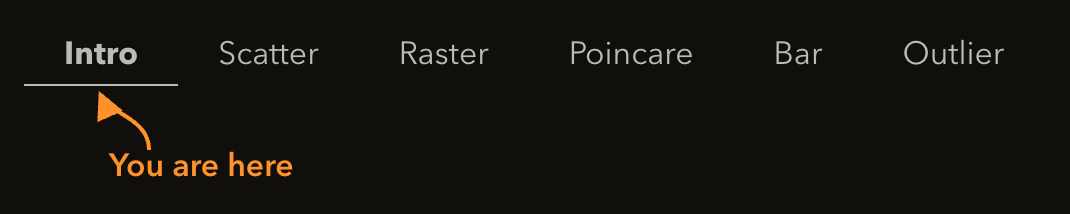
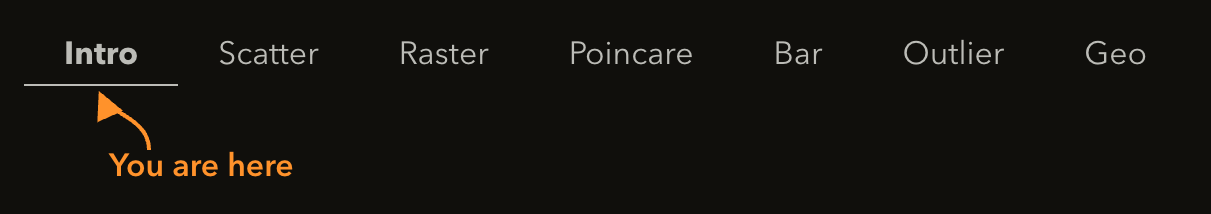
geo chart docs

diff --git a/packages/examples/src/app/examples/docs/Intro.tsx b/packages/examples/src/app/examples/docs/Intro.tsx
@@ -12,6 +12,7 @@ import raster_chart_page from "./raster-chart.md?raw";
 import poincare_chart_page from "./poincare-chart.md?raw";
 import bar_chart_page from "./bar-chart.md?raw";
 import outlier_chart_page from "./outlier-chart.md?raw";
+import geo_chart_page from "./geo-chart.md?raw";
 import axes_page from "./axes.md?raw";
 import legends_page from "./legends.md?raw";
 import theming_page from "./theming.md?raw";
@@ -53,6 +54,7 @@ const pages = [
     poincare_chart_page,
     bar_chart_page,
     outlier_chart_page,
+    geo_chart_page,
     axes_page,
     legends_page,
     theming_page,

diff --git a/packages/examples/src/app/examples/docs/geo-chart.md b/packages/examples/src/app/examples/docs/geo-chart.md
@@ -1,0 +1,82 @@
+### the geo chart
+
+The geo chart plots events from sensors at places on the earth – on a globe, or on a flat map in one of eleven projections. Each event says which sensor reported it, where (a latitude and longitude), when, and what it reported (its *payload*). The chart shows either each event as it arrives, or *aggregates*: the events rolled up by place, by sensor, or by the cells of a grid, with counts and measures of what they reported.
+
+#### what you're looking at
+
+<figure>
+    <img src="./images/geo-chart.png" alt="The geo chart example: a globe with the land, the borders, and the graticule; purple seismic events, blue weather readings, and green trails of vessel reports, the older ones fading">
+    <figcaption>
+        <b>Figure 14</b> The geo chart after running for half a minute. The purple markers are seismic events, sized by their magnitude; the blue ones, wind speeds from weather stations; and the green trails, position reports from vessels at sea. The older the event, the fainter its marker.
+    </figcaption>
+</figure>
+
+The example simulates a network of three groups of sensors:
+
+- **seismic stations** around the Pacific "Ring of Fire" and a few other active zones, with two or three sensors at each site – so one quake is often reported by several sensors at the same place,
+- **weather stations**, one in each of 26 cities, reporting wind speeds, and
+- **vessels**, sensors that move: they sail back and forth along shipping routes, reporting their position and speed as they go.
+
+Each group is a series, with its own color and legend entry. Every event's payload holds its kind, a reading (a quake's magnitude, a wind speed, or a vessel's speed), and a status – ok, a warning, or an alarm.
+
+Drag the globe to turn it, and hold shift while scrolling to zoom – about the mouse, so the place under it stays put. On a flat map, dragging pans the map instead (north and south, too, once you've zoomed in). The view stays where you left it when you switch to another tab and back.
+
+Hover over a marker, with the tooltip on, and the tooltip shows the event's series and sensor, where and when it happened, and its reading and status. Unlike the other charts, the geo chart's tooltip also works *while the chart is running* – the places don't move, so there's nothing to chase.
+
+The markers are circles on the earth, drawn through the projection, so the projection shapes them just like the land: they flatten toward the edge of the globe, and stretch toward the poles of a Mercator map.
+
+#### aggregates
+
+<figure>
+    <img src="./images/geo-aggregates.png" alt="The geo chart showing aggregates: circles at the sensor sites, sized by their number of events and colored by their peak reading, with a key for the sizes and the colors in the bottom-right corner">
+    <figcaption>
+        <b>Figure 15</b> The same data, rolled up "by location": one circle per place, its area showing how many events happened there, and its color the peak reading. The key, in the corner, says what the sizes and colors mean.
+    </figcaption>
+</figure>
+
+Switch **Show** to *Aggregates* and, instead of the events, the chart shows one of the data source's *roll-ups*. A roll-up puts every event into a cell, and keeps a count, and some measures, for each cell. The example has four:
+
+- **Events by location** – all the events at a place, whichever sensor reported them, broken down by sensor. At a seismic site, that's the site's total, and how many each of its sensors reported.
+- **Events by sensor** – each sensor's events, wherever the sensor was. A vessel's circle follows the vessel.
+- **Alarms and warnings by location** – only the events whose status isn't ok, by place, broken down by status.
+- **10° grid** – all the events in each 10° by 10° cell of a grid, drawn as the cells themselves, broken down by series.
+
+Each roll-up measures the *peak reading* and the *mean reading* of its events. A circle's area shows its number of events, and its color the measure picked in **Color by**. The tooltip lists the counts of events and sensors, the time span, the measures, and the breakdown.
+
+The data source keeps its roll-ups up to date as events arrive *and as they're dropped*, so a roll-up always covers exactly the events the chart holds. And because it's the data source that keeps them, they keep up while you're on another tab, and switching roll-ups is instant.
+
+#### controls just for this chart
+
+<figure>
+    <img src="./images/geo-controls.png" alt="The geo chart's expanded control panel, with the controls just for the geo chart outlined: size by magnitude and color by status; the show, roll-up, and color-by drop-downs; and the projection, graticule, borders, fade older, and auto-rotate controls" width="460px">
+    <figcaption>
+        <b>Figure 16</b> The geo chart's control panel, opened with the expand button. The outlined controls are just for the geo chart, and the rest are the common controls (see the common controls page).
+    </figcaption>
+</figure>
+
+- **size by magnitude** – Sizes each event's marker by its reading: a quake's magnitude, a wind speed, or a vessel's speed, each scaled to a similar range of sizes. *Wired to:* the plot's `radiusOf` property.
+- **color by status** – Colors warnings orange and alarms red; ok events keep their series' color. *Wired to:* the plot's `colorOf` property.
+- **Show** – *Events* or *Aggregates*. *Wired to:* the plot's `mode` property.
+- **Roll-up** – Which roll-up to show, in the aggregates mode. *Wired to:* the plot's `rollup` property (the names come from the data source's `rollups` option).
+- **Color by** – What colors the aggregates: nothing, their count, or one of their measures. *Wired to:* the plot's `colorBy` property.
+- **Projection** – The map projection: the orthographic projection (the globe), the other azimuthal projections, or one of the flat ones, from Mercator to Equal Earth. *Wired to:* the plot's `projection` property.
+- **graticule** and **borders** – The lines of latitude and longitude, and the borders between countries. *Wired to:* the plot's `showGraticule` and `borders` properties.
+- **fade older** – Fades the events (and the aggregates) as they age, over 30 seconds. *Wired to:* the plot's `fadeDuration` property.
+- **auto-rotate** – Turns the globe by itself, at 6° a second, pausing while you drag it or hover over an event. *Wired to:* the plot's `autoRotate` property.
+
+There's no **Cadence**, **Update Lag**, or tracker here – the geo chart has no time axis. The **RegEx filter** filters the events' series; a roll-up decides for itself which events it takes (the "alarms and warnings" roll-up, for example). And the legend only shows with the events – the aggregates have their keys instead.
+
+#### where the code lives
+
+The example (yours to copy, change, or ignore):
+- `src/app/examples/StreamingGeoChart.tsx` – the control bar, and the chart itself
+- `src/app/examples/appstate/geoChartStore.ts` – the example's state, its data source, and the data source's roll-ups
+- `src/app/examples/dataproviders/randomGeoData.ts` – the random network of sensors
+- `src/app/examples/dataproviders/worldMap.ts` – the map: the land and the borders, from the [world-atlas](https://github.com/topojson/world-atlas) package (converted from TopoJSON with [topojson-client](https://github.com/topojson/topojson-client))
+- `src/app/examples/controls/ProjectionControl.tsx` and `src/app/examples/controls/GeoAggregateControls.tsx` – the controls just for this chart
+
+The library (what you'd use in your own application):
+- `<Chart>`, `<GeoPlot>`, `<Legend>`, `<Tooltip>` with `<GeoPlotTooltipContent>`
+- `GeoDataSource` – holds the events, and keeps the roll-ups (made with `byLocation`, `bySensor`, `byGridCell`, and measures like `maxOf` and `meanOf`)
+
+The library doesn't come with a map: you hand the plot the land and borders you want, at the level of detail you want, as GeoJSON.

diff --git a/packages/examples/src/app/examples/docs/common-controls.md b/packages/examples/src/app/examples/docs/common-controls.md
@@ -20,23 +20,23 @@ A lot of the controls are disabled while the chart is running. Those change how 
 - **Cadence** – When checked, the time axis moves on every frame of the display, whether or not new data has arrived, so it scrolls smoothly instead of jumping forward with each batch. That's especially handy when the data arrives slowly. When the data arrives quickly, cadence is generally unnecessary. *Wired to:* the plot's `withCadence` property.
 - **Update Lag** – Not a control, but a read-out: how far the chart's time has fallen behind real time since you clicked **Run**. If the chart can't keep up with the data (too many series, arriving too often, with too little buffering), the lag grows – and the lag icon in the header turns red. This is a good way to find the limits of what a chart can handle. *Computed by:* the example, from the time the chart reports through its `onUpdateAxesBounds` (or `onUpdateChartTime`) callback.
 - **RegEx filter** – Type a regular expression and only the series whose names match it are shown. For example, `1$` shows only the series whose names end in "1". An invalid expression (say, while you're still typing it) shows all the series. This one works while the chart is running. *Wired to:* the `<Chart>`'s `seriesFilter` property.
-- **tooltip** – Shows a tooltip with details about the series (or data point) under the mouse. The tooltips are only available while the chart is paused – chasing a moving line with the mouse isn't much fun anyway. More on tooltips a few pages from now. *Wired to:* the `<Tooltip>`'s `visible` property.
+- **tooltip** – Shows a tooltip with details about the series (or data point) under the mouse. The tooltips are only available while the chart is paused – chasing a moving line with the mouse isn't much fun anyway. (The geo chart is the exception: its places don't move, so its tooltip works while it runs, too.) More on tooltips a few pages from now. *Wired to:* the `<Tooltip>`'s `visible` property.
 - **tracker** – Shows a line that follows the mouse, with a label for its value on the axis. Also only available while the chart is paused. *Wired to:* the `<Tracker>`'s `visible` property.
 - **highlight axes** – When checked, hovering over a series also highlights the axes it's plotted against. That's handy when a chart has more than one x- or y-axis (the scatter chart, for example, has two of each). *Wired to:* the plot's `highlightAxesOnMouseOver` property.
 
 #### which example has which
 
-|                    | Scatter | Raster | Poincare | Bar | Outlier |
-|--------------------|:-------:|:------:|:--------:|:---:|:-------:|
-| drop-after         |    ✓    |   ✓    |    ✓     |  ✓  |    ✓    |
-| Number of Series   |    ✓    |   ✓    |          |  ✓  |         |
-| Update Rate        |    ✓    |   ✓    |    ✓     |  ✓  |    ✓    |
-| Buffering          |    ✓    |   ✓    |          |  ✓  |    ✓    |
-| Cadence            |    ✓    |   ✓    |          |     |    ✓    |
-| Update Lag         |    ✓    |   ✓    |    ✓     |  ✓  |    ✓    |
-| RegEx filter       |    ✓    |   ✓    |          |  ✓  |    ✓    |
-| tooltip            |    ✓    |   ✓    |    ✓     |  ✓  |    ✓    |
-| tracker            |    ✓    |   ✓    |    ✓     |  ✓  |         |
-| highlight axes     |    ✓    |   ✓    |    ✓     |  ✓  |    ✓    |
+|                    | Scatter | Raster | Poincare | Bar | Outlier | Geo |
+|--------------------|:-------:|:------:|:--------:|:---:|:-------:|:---:|
+| drop-after         |    ✓    |   ✓    |    ✓     |  ✓  |    ✓    |  ✓  |
+| Number of Series   |    ✓    |   ✓    |          |  ✓  |         |     |
+| Update Rate        |    ✓    |   ✓    |    ✓     |  ✓  |    ✓    |  ✓  |
+| Buffering          |    ✓    |   ✓    |          |  ✓  |    ✓    |  ✓  |
+| Cadence            |    ✓    |   ✓    |          |     |    ✓    |     |
+| Update Lag         |    ✓    |   ✓    |    ✓     |  ✓  |    ✓    |     |
+| RegEx filter       |    ✓    |   ✓    |          |  ✓  |    ✓    |  ✓  |
+| tooltip            |    ✓    |   ✓    |    ✓     |  ✓  |    ✓    |  ✓  |
+| tracker            |    ✓    |   ✓    |    ✓     |  ✓  |         |     |
+| highlight axes     |    ✓    |   ✓    |    ✓     |  ✓  |    ✓    |     |
 
 The next pages go through the examples one at a time – what each chart shows, and the controls that are specific to it.

diff --git a/packages/examples/src/app/examples/docs/writing-tooltips.md b/packages/examples/src/app/examples/docs/writing-tooltips.md
@@ -293,9 +293,37 @@ export function MyOutlierTooltip(): ReactElement {
 
 The outlier chart also has a shortcut, which the tooltips page mentioned: put your own component inside the library's `<OutlierPlotTooltipContent>`, and it renders that instead of its own content. Your component gets what the tooltip shows, and the formatters, from the `useOutlierTooltip()` hook (see `MyOutlierTooltipContent` in `src/app/examples`).
 
+#### the geo chart
+
+The geo plot has two kinds of things to hover over, depending on its `mode`: the events, and a roll-up's aggregates. Its `metadata` says which, with its `kind`:
+
+- `{kind: 'event', seriesName, datum}` – the event under the mouse: its `sensorId`, `latitude`, `longitude`, `time`, and `payload`.
+- `{kind: 'aggregate', rollup, aggregate}` – the aggregate under the mouse, and its roll-up's name. The aggregate has its `count`, `sensorCount`, `values` (the measures, by name), `groups`, position, and time span.
+
+```tsx
+import {type ReactElement} from "react";
+import {TooltipContent, type GeoDatum, type GeoTooltipMetadata} from "stream-charts";
+import type {SensorReading} from "./dataproviders/randomGeoData";
+
+export function MyGeoTooltip(): ReactElement {
+    return (
+        <TooltipContent<GeoDatum<SensorReading>, GeoTooltipMetadata<SensorReading>, GeoTooltipMetadata<SensorReading>>
+            capture={(_seriesName, _time, {metadata}) => metadata}
+        >
+            {target => target.kind === 'event' ?
+                <div>{target.datum.sensorId}: {target.datum.payload.magnitude}</div> :
+                <div>{target.aggregate.count} events from {target.aggregate.sensorCount} sensors</div>
+            }
+        </TooltipContent>
+    )
+}
+```
+
+The library's `<GeoPlotTooltipContent>` takes formatters for the position, the time, the payload, and the measures – and an `aggregateFormatter` that replaces its whole content for an aggregate – so you'll often not need your own.
+
 #### things to know
 
-- **Most tooltips only show while the chart is paused.** The scatter, raster, Poincaré, and bar plots don't hit-test while their data source is running, so there's nothing for a tooltip to do. (Chasing a moving line with the mouse isn't much fun anyway.) The outlier plot is the exception: its bands can be hovered while it streams, too.
+- **Most tooltips only show while the chart is paused.** The scatter, raster, Poincaré, and bar plots don't hit-test while their data source is running, so there's nothing for a tooltip to do. (Chasing a moving line with the mouse isn't much fun anyway.) The outlier plot is one exception: its bands can be hovered while it streams, too. The geo plot is the other: its places don't move, so its events and aggregates can be hovered while it streams, and an open tooltip keeps up with the aggregate under a resting mouse.
 - **The capture function runs on every mouse move.** Keep it quick. The series can hold thousands of points, so a loop over them is fine, but anything slower adds up.
 - **Copy what you need out of the series.** The series is the data source's live data, which keeps changing as data arrives (and gets dropped). That's why the tooltips above pull out the values they show, rather than keeping the series around.
 - **One tooltip per chart.** A chart has one content provider at a time, so put one tooltip component inside the `<Tooltip>`. When you need different content for different elements, switch on `providerId` (or on the metadata), as the bar and outlier tooltips do.

diff --git a/packages/examples/src/app/examples/docs/tooltips-and-trackers.md b/packages/examples/src/app/examples/docs/tooltips-and-trackers.md
@@ -6,12 +6,12 @@ In the examples, both are turned on and off with checkboxes in the control bar, 
 
 #### tooltips
 
-Hover over a series (or a point, a spike, a bar, or a band) with the tooltip on, and a little box pops up with the details: the series name, the values, and whatever else makes sense for the chart type. For example, the scatter chart's tooltip shows the data points on either side of the mouse and the change between them – or, when the mouse is right on a data point, that point along with the points before and after it – and the chart highlights the points the tooltip is showing. The raster chart's tooltip adds statistics of the neuron's spikes in the window – their count, mean value and standard deviation, and the mean time between spikes – with a sparkline of their values (the hovered spike is the dot). The Poincare chart's tooltip shows the hovered iterate and its neighbors, with a sparkline of the series' values over time, around the hovered point (which is the dot). The bar chart's tooltip includes a sparkline – a tiny line chart of the value over the data the chart is holding, ending in the current value – and the outlier chart's tooltip describes the band you're hovering over.
+Hover over a series (or a point, a spike, a bar, or a band) with the tooltip on, and a little box pops up with the details: the series name, the values, and whatever else makes sense for the chart type. For example, the scatter chart's tooltip shows the data points on either side of the mouse and the change between them – or, when the mouse is right on a data point, that point along with the points before and after it – and the chart highlights the points the tooltip is showing. The raster chart's tooltip adds statistics of the neuron's spikes in the window – their count, mean value and standard deviation, and the mean time between spikes – with a sparkline of their values (the hovered spike is the dot). The Poincare chart's tooltip shows the hovered iterate and its neighbors, with a sparkline of the series' values over time, around the hovered point (which is the dot). The bar chart's tooltip includes a sparkline – a tiny line chart of the value over the data the chart is holding, ending in the current value – the outlier chart's tooltip describes the band you're hovering over, and the geo chart's tooltip shows the event (or the aggregate) under the mouse.
 
 In the library, a tooltip comes in two parts:
 
 1. `<Tooltip>` – the tooltip itself. It decides whether the tooltip shows, and its look (colors, border, opacity, and font) is set through its `style` property.
-2. The *content* – what goes in the box. The library has content for each chart type: `<ScatterPlotTooltipContent>`, `<RasterPlotTooltipContent>`, `<PoincarePlotTooltipContent>`, `<BarPlotTooltipContent>`, and `<OutlierPlotTooltipContent>`. The content draws the box, next to the mouse, in the tooltip's style.
+2. The *content* – what goes in the box. The library has content for each chart type: `<ScatterPlotTooltipContent>`, `<RasterPlotTooltipContent>`, `<PoincarePlotTooltipContent>`, `<BarPlotTooltipContent>`, `<OutlierPlotTooltipContent>`, and `<GeoPlotTooltipContent>`. The content draws the box, next to the mouse, in the tooltip's style.
 
 You put the content inside the tooltip, and the tooltip inside the chart:
 

diff --git a/packages/examples/src/app/examples/docs/where-the-code-lives.md b/packages/examples/src/app/examples/docs/where-the-code-lives.md
@@ -7,7 +7,7 @@ The library and the example live side by side in the same repository, as two pac
 | where                                   | whose is it? | what's in it                                                    |
 |-----------------------------------------|--------------|-----------------------------------------------------------------|
 | `packages/stream-charts/src/app/charts` | the library  | the charts: `<Chart>`, the axes, plots, data sources, and so on |
-| `src/app/examples`                      | the example  | the five examples, their state, their data, and their controls  |
+| `src/app/examples`                      | the example  | the six examples, their state, their data, and their controls   |
 | `src/app/ui`                            | the example  | general-purpose UI widgets – buttons, drop-downs, the control bar |
 
 There's a simple rule that keeps the two apart: **the example uses the library, and the library never uses the example.** The example imports everything it uses from the library from one place, `"stream-charts"` – for example, `import {Chart, ContinuousAxis, ScatterPlot} from "stream-charts"` – and that's all your application needs, too. So if you're wondering whether a piece of code is "stream-charts," check where it's imported from.
@@ -18,7 +18,7 @@ Everything the library offers is exported from the package itself. Inside, its c
 
 - `Chart.tsx` – the `<Chart>` component, the container that everything else goes into
 - `axes` – `<ContinuousAxis>`, `<OrdinalAxis>`, and `<EmptyAxis>`, and the code for zooming and panning them
-- `plots` – one plot per chart type: `<ScatterPlot>`, `<RasterPlot>`, `<PoincarePlot>`, `<BarPlot>`, and `<OutlierPlot>`
+- `plots` – one plot per chart type: `<ScatterPlot>`, `<RasterPlot>`, `<PoincarePlot>`, `<BarPlot>`, `<OutlierPlot>`, and `<GeoPlot>`
 - `datasources` – the data sources, which hold a chart's data and ingest the stream (next page)
 - `subscriptions` – the view drivers, which keep a plot's view in step with its data source (also the next page)
 - `series` and `observables` – the shapes of the data, and helpers for building streams of it

diff --git a/packages/examples/src/app/examples/docs/intro.md b/packages/examples/src/app/examples/docs/intro.md
@@ -16,7 +16,7 @@ Plenty of charting libraries handle static data beautifully. Some charting libra
 - **Zoom and pan while the data streams.** While a chart with a time axis runs, zooming keeps "now" fixed on screen, so the newest data never runs off the edge while you look at the past.
 - **Up to four axes per chart.** Each series is assigned its own x- and y-axis (top or bottom, left or right), and each axis can be linear, logarithmic, or one of [d3](https://d3js.org)'s other continuous scales.
 - **Auto-scaling y-axes.** A y-axis can grow to fit the data as it arrives, with limits on how far it may grow, and a little headroom so the data doesn't run up against the edge.
-- **Charts for data with a story to tell.** Besides scatter charts, there are raster charts (for events, like neurons firing), Poincare charts (for spotting structure in a series), bar charts with both lifetime and recent-window statistics, and outlier charts that shade a model's bounds and flag the points outside them.
+- **Charts for data with a story to tell.** Besides scatter charts, there are raster charts (for events, like neurons firing), Poincare charts (for spotting structure in a series), bar charts with both lifetime and recent-window statistics, outlier charts that shade a model's bounds and flag the points outside them, and geo charts that place sensor events on a globe or a map – one by one, or rolled up by place.
 - **A filter that works mid-stream.** A regular expression picks which series to show, and you can change it while the data streams in. The legend follows along.
 - **Legends and tooltips you can make your own.** Hovering over a legend entry highlights its series in the chart, and vice versa. Tooltips come in SVG or HTML flavors, take formatters for their values, and can be replaced with your own content altogether.
 - **Fast drawing.** Each chart draws onto a single canvas, rather than juggling thousands of SVG elements, which is a big part of how it keeps up with high-frequency data.

diff --git a/changes.md b/changes.md
@@ -6,7 +6,8 @@
 1. With cadence, the time axes of the scatter, raster, and outlier plots scrolled unevenly: they moved on each cadence tick (e.g. every 25 ms), which rarely lines up with the display's frames, so on a 60 Hz display they moved on two frames out of three. They now move on every frame of the display.
 
 **New**
-1. The scatter, raster, outlier, and Poincaré plots take `withCadence` (`boolean`) to turn cadence on. `withCadenceOf` (a period, in ms) is deprecated: any value still turns cadence on, but the period is no longer used.
+1. The scatter, raster, outlier, and Poincaré plots take `withCadence` (`boolean`) to turn cadence on.
+2. Added the `<GeoPlot>`, which plots events from sensors at places on the earth (`GeoDatum`: a sensor ID, latitude, longitude, time, and payload) on a globe or a map, in any d3-geo projection, with an application-supplied basemap. It draws each event, or, with `mode="aggregates"`, the aggregates of a `GeoDataSource`'s roll-ups (`byLocation`, `bySensor`, `byGridCell`, with `countOf`, `sumOf`, `meanOf`, `minOf`, `maxOf`, `latestOf`), kept up to date incrementally as events arrive and are dropped. Dragging turns the globe, the wheel zooms about the mouse, events can fade with age, the globe can turn by itself, and the view can be kept across remounts. Includes `GeoDataSource` and `<GeoPlotTooltipContent>`, whose tooltips also show while the data source runs. `withCadenceOf` (a period, in ms) is deprecated: any value still turns cadence on, but the period is no longer used.
 
 ## version 2.0.0 (data sources, canvas rendering, outlier plot)
 

diff --git a/packages/examples/src/app/examples/docs/how-the-data-flows.md b/packages/examples/src/app/examples/docs/how-the-data-flows.md
@@ -5,7 +5,7 @@ Let's follow a data point from the moment it's created to the moment it shows up
 <figure>
     <img src="./images/data-flow.png" alt="How the data flows: the example's data generator (an RxJS observable) feeds the library's data source (held by the example's store, started and stopped by Run/Pause), which feeds a view driver (one per mounted plot), which feeds the plot">
     <figcaption>
-        <b>Figure 14</b> How the data flows, from the example's data generator, through the library's data source and view driver, to the plot.
+        <b>Figure 17</b> How the data flows, from the example's data generator, through the library's data source and view driver, to the plot.
     </figcaption>
 </figure>
 
@@ -61,4 +61,4 @@ To build your own streaming chart, you need to:
 3. **Start and stop the data source** when it makes sense – on a button click, when a connection opens, or right away.
 4. **Hand the data source to a `<Chart>`**, along with the axes and the plot you want. The library takes it from there.
 
-The five examples do exactly this, so pick the one closest to what you're building, and use it as your starting point. Or, to see each step on its own, turn to the next page, where we build one from scratch.
+The six examples do exactly this, so pick the one closest to what you're building, and use it as your starting point. Or, to see each step on its own, turn to the next page, where we build one from scratch.

diff --git a/packages/examples/src/app/examples/docs/contents.md b/packages/examples/src/app/examples/docs/contents.md
@@ -9,13 +9,14 @@ Each of the tabs in the tabs presents an example of a particular chart type.
     </figcaption>
 </figure>
 
-Currently, there are five chart types available, each presented as an example in one of the tabs.
+Currently, there are six chart types available, each presented as an example in one of the tabs.
 
 1. **Scatter** – Used for plotting multiple time-series. The data are connected by a line and can have markers.
 2. **Raster** – Used for plotting time-events (such as the firing of a neuron).
 3. **Poincare** – Used when looking for auto-correlations in a time-series. Accepts a time-series as input and plots `d[i+n]` (y-axis) against `d[i]` (x-axis) where `n` is the lag. Provides the Tent map, Gaussian map, and the Logistic map as examples.
 4. **Bar** – Used for plotting multiple time-series as bars that show the current value, min/max, and mean values.
 5. **Outlier** – Used for displaying a single time-series that is annotated with model bounds.
+6. **Geo** – Used for plotting events from sensors at places on the earth, on a globe or a map, either one by one or rolled up by place.
 
 
 The next pages describe:

diff --git a/packages/examples/src/app/examples/docs/theming.md b/packages/examples/src/app/examples/docs/theming.md
@@ -19,6 +19,7 @@ There's no theme object in the [stream-charts](https://www.npmjs.com/package/str
 | `<BarPlot>`                       | its series styles (see `defaultBarSeriesStyle(color)`) – the bars, and the lines for the mean and min/max |
 | `<OutlierPlot>`                   | the series' color (the line, and its bands), and `outlierMarkerColors`              |
 | `<PoincarePlot>`                  | the series' colors, and `lineStartColor`/`lineEndColor` when colorizing the lines   |
+| `<GeoPlot>`                       | the series' colors (or `colorOf`); the map's colors (`oceanColor`, `landColor`, `borderColor`, `graticuleColor`, `outlineColor`), which default to tints of the chart's `color`; and the aggregates' `aggregateColor` and `colorScheme` |
 
 The tooltip contents (the tables, the autocorrelation sparkline, and so on) draw in the tooltip's `fontColor`, so they follow the tooltip.
 

diff --git a/packages/examples/src/app/examples/docs/adding-a-data-source.md b/packages/examples/src/app/examples/docs/adding-a-data-source.md
@@ -22,6 +22,7 @@ Each kind of chart takes its own shape of data, and each shape has its own data 
 | a sequence, plotted against itself (`x[n+1]` vs `x[n]`) | `IterateChartData` | `IteratesDataSource`  | `<PoincarePlot>`   |
 | the latest value of each category              | `OrdinalChartData`      | `OrdinalDataSource`   | `<BarPlot>`        |
 | values over time, with model bounds            | `OutlierChartData`      | `OutlierDataSource`   | `<OutlierPlot>`    |
+| events at places on the earth                  | `GeoChartData`          | `GeoDataSource`       | `<GeoPlot>`        |
 
 Temperature readings are values over time, so we'll use `TimeSeriesChartData`. Each chunk of `TimeSeriesChartData` that the observable emits holds:
 
